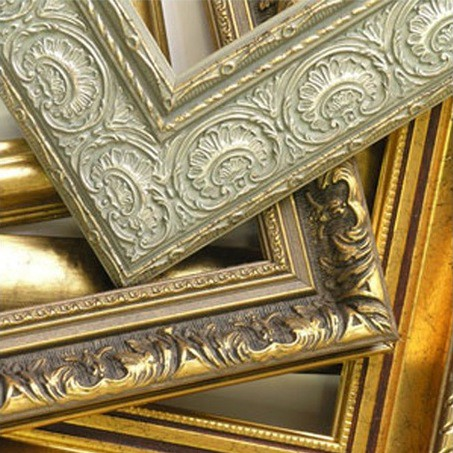
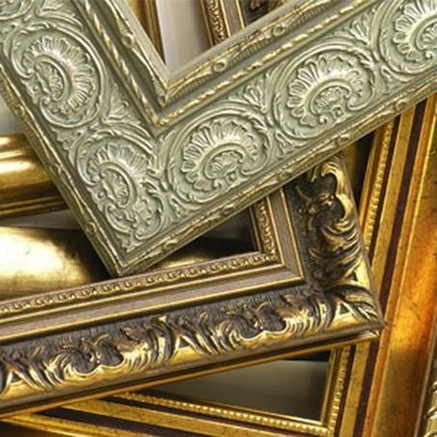
debug index

diff --git a/index.html b/index.html
@@ -23,7 +23,7 @@ description: Les ateliers créatifs
   <ul class="thumbnails">
     <li class="span3">
       <div class="thumbnail">
-        <a href="/activite-refection-fauteuil.html"><img src="/assets/img/restauration-fauteuil.jpg" alt="Réfection et tapisserie de fauteuils anciens"></a>
+        <a href="/activite-refection-fauteuil.html"><img src="/assets/img/restauration-fauteuil.jpg" width="437px" height="437px" alt="Réfection et tapisserie de fauteuils anciens"></a>
         <div>
           <h2><a href="/activite-refection-fauteuil.html">Réfection de fauteuils</a></h2>
           <p>Restaurez vos sièges de style avec des techniques de tapisserie traditionnelles : sangles, ressorts, crins… et l'aide d'un professeur diplômé.</p>
@@ -32,7 +32,7 @@ description: Les ateliers créatifs
     </li>
     <li class="span3">
       <div class="thumbnail">
-        <a href="/activite-restauration-tableaux.html"><img src="/assets/img/nettoyage-tableaux.jpg" alt="Nettoyage de tableaux"></a>
+        <a href="/activite-restauration-tableaux.html"><img src="/assets/img/nettoyage-tableaux.jpg" width="437px" height="437px" alt="Nettoyage de tableaux"></a>
         <div>
           <h2><a href="/activite-restauration-tableaux.html">Restauration de tableaux</a></h2>
           <p>Du nettoyage à la remise en état, pour faire revivre des tableaux anciens.</p>
@@ -41,7 +41,7 @@ description: Les ateliers créatifs
     </li>
     <li class="span3">
       <div class="thumbnail">
-       <a href="/activite-tapisserie-aiguille.html"><img src="/assets/img/tapisserie-aiguille.jpg" alt="Tapisserie aiguille" ></a>
+       <a href="/activite-tapisserie-aiguille.html"><img src="/assets/img/tapisserie-aiguille.jpg" width="437px" height="437px" alt="Tapisserie aiguille" ></a>
        <div>
          <h2><a href="/activite-tapisserie-aiguille.html">Tapisserie à l'aiguille</a></h2>
          <p>Un atelier de tapisserie au point pour coussins, avec des conseils de l'animateur.</p>
@@ -50,7 +50,7 @@ description: Les ateliers créatifs
    </li>
    <li class="span3">
      <div class="thumbnail">
-       <a href="/activite-patchwork.html"><img src="/assets/img/patchwork.jpg" alt="Patchwork"></a>
+       <a href="/activite-patchwork.html"><img src="/assets/img/patchwork.jpg" width="437px" height="437px" alt="Patchwork"></a>
        <div>
          <h2><a href="/activite-patchwork.html">Patchwork</a></h2>
          <p>A propos des points, des carrés et des quitts pour créer des ouvrages décoratifs.</p>
@@ -60,7 +60,7 @@ description: Les ateliers créatifs
    </li>
    <li class="span3">
     <div class="thumbnail">
-      <a href="/activite-cannage.html"><img src="/assets/img/cannage.jpg" alt="Cannage"></a>
+      <a href="/activite-cannage.html"><img src="/assets/img/cannage.jpg" width="437px" height="437px" alt="Cannage"></a>
       <div>
         <h2><a href="/activite-cannage.html">Cannage</a></h2>
         <p>Apprendre à canner vos sièges suivant une méthode traditionnelle</p>
